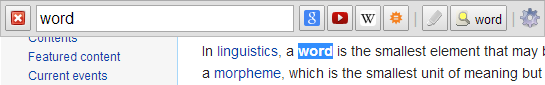
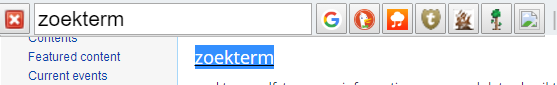
Images nd such

diff --git a/background.js b/background.js
@@ -10,26 +10,36 @@ var defaultsettings={
   "displayfindbuttons":true,
   "maximumnumberoffindbuttons":5,
   "sendsearchsuggestions":true,
-  "searchsuggestionslocale":"http://www.google.com",
+  "searchsuggestionslocale":".nl",
   "maximumnumberofsearchsuggestions":10,
   "maximumnumberofsearchhistorysuggestions":10,
   "disablesearchhistory":false,
-  "displayoptionspagelink":true,
+  "displayoptionspagelink":false,
   "hotkeys":{
     "show":[115,false,false,false],
     "hide":[27,false,false,false],
     "highlight":[72,true,true,false]
   },
   "custombuttons":[
-    [true,false,[[71,true,false,false],[71,true,true,false],[71,true,true,true]],"Salesforce (Alt+S)","https://www.salesforce.com/","https://eu4.salesforce.com/_ui/search/ui/UnifiedSearchResults?searchType=2&sen=00P&sen=001&sen=003&sen=00T&sen=005&sen=00U&sen=006&sen=a08&sen=00O&str=%s"],
-    [true,false,[[89,true,false,false],[89,true,true,false],[89,true,true,true]],"GerichtOnline (Alt+G)","https://go.gerichtonline.nl","https://go.gerichtonline.nl/cms/accounts?s=%s&d=Ascending&e=Name&i=1&o=20&u=%s"],
-    [true,false,[[87,true,false,false],[87,true,true,false],[87,true,true,true]],"Wikipedia (Alt+W)","http://en.wikipedia.org/","http://en.wikipedia.org/w/index.php?search=%s&title=Special%3ASearch"],
-    [true,false,[[false,false,false,false],[false,false,false,false],[false,false,false,false]],"Wolfram|Alpha","http://www.wolframalpha.com/","http://www.wolframalpha.com/input/?i=%s"],
+    [true,false,[[71,true,false,false],[71,true,true,false],[71,true,true,true]],"Google (Alt+G)","https://www.google.com/","https://www.google.nl/webhp?hl=en#hl=en&q=%s"],
+    [true,false,[[89,true,false,false],[89,true,true,false],[89,true,true,true]],"DuckDuckGo (Alt+D)","https://duckduckgo.com/","https://duckduckgo.com/?q=%s"],
+    [true,false,[[87,true,false,false],[87,true,true,false],[87,true,true,true]],"Mycloudplayer (Alt+C)","http://mycloudplayers.com/","http://mycloudplayers.com/?q=%s"],
+    [true,false,[[false,false,false,false],[false,false,false,false],[false,false,false,false]],"Kickass Torrent (Alt+K)","https://kat.cr/","https://kat.cr/usearch/%s"],
+    [true,false,[[false,false,false,false],[false,false,false,false],[false,false,false,false]],"Pirate bay(Alt+P)","https://pirateproxy.tf/","https://pirateproxy.tf/s/?q=%s"],
+    [true,false,[[false,false,false,false],[false,false,false,false],[false,false,false,false]],"Terraria wiki(Alt+T)","http://terraria.gamepedia.com/","http://terraria.gamepedia.com/index.php?search=%s&title=Special%3ASearch&go=Go"],
+    [true,false,[[false,false,false,false],[false,false,false,false],[false,false,false,false]],"Github(Alt+H)","https://github.com","https://github.com/search?utf8=&q=%s"], 
+    [true,true,[[false,false,false,false],[false,false,false,false],[false,false,false,false]],"search current site","http://www.google.com/","http://www.google.com/search?q=%s%20site%3A%h"],
+    [true,false,[[false,false,false,false],[false,false,false,false],[false,false,false,false]],"Google Images","http://images.google.com/","http://www.google.com/search?tbm=isch&q=%s"],     
   ],
-  "i1":"https://eu4.salesforce.com/favicon.ico",
-  "i2":"https://go.gerichtonline.nl/favicon.ico",
-  "i3":"https://bits.wikimedia.org/favicon/wikipedia.ico",
-  "i4":"https://www.wolframalpha.com/favicon.ico",
+  "i1":"https://www.google.com/favicon.ico",
+  "i2":"https://www.duckduckgo.com/favicon.ico",
+  "i3":"https://www.mycloudplayers.com/favicon.ico",
+  "i4":"https://kat.cr/favicon.ico",
+  "i5":"https://pirateproxy.tf/favicon.ico",
+  "i6":"http://hydra-media.cursecdn.com/terraria.gamepedia.com/6/64/Favicon.ico", 
+  "i7":"https://github.com/favoicon.ico",
[2 lines of base64/hex data omitted]
   "detect":true,
   "detectprimary":true,
   "detectcustom":[],
@@ -43,7 +53,7 @@ var defaultsettings={
   "direction":"initial",
   "removewhitespace":true,
   "forcepopup":false,
-  "extrapixels":0,
+  "extrapixels":5,
   "imageproxy":true,
   "searchremember":true
 };

diff --git a/options.html b/options.html
@@ -169,21 +169,21 @@ span#portwarning{
   display:none;
 }
 span#portwarning b{
-  color:#ff0000;
+  color:#ffffff;
 }
 </style>
 <script src="options.js"></script>
 </head><body>
 <a target="_blank" href="about:blank"><img src="logo_bro.jpg" id="brosmalllogo"></a>
-<h1><img src="icon48.png" class="icon"> SearchBar Options</h1>
+<h1><img src="icon48.png" class="icon"> Instellingen Awesome Search Engine</h1>
 <table><tr>
   <td id="sidebar">
-    <p id="introlink" class="sidebarlink">Introduction</p>
-    <p id="basiclink" class="sidebarlink">Basic settings</p>
-    <p id="advancedlink" class="sidebarlink">Advanced settings</p>
-    <p id="customlink" class="sidebarlink">Custom searches</p>
-    <p id="helplink" class="sidebarlink">Help/FAQ</p>
-    <p id="supportlink" class="sidebarlink">Support SearchBar</p></td>
+    <p id="introlink" class="sidebarlink">Hoe werk het</p>
+    <p id="basiclink" class="sidebarlink">Pagina 2</p>
+    <p id="advancedlink" class="sidebarlink">Instellingen</p>
+    <p id="customlink" class="sidebarlink">Customize de searchbar (werkt nog niet)</p>
+    <p id="helplink" class="sidebarlink">Vraag en antwoord</p>
+    <p id="supportlink" class="sidebarlink">De auteur</p></td>
   <td id="intro" class="settingsbar">
     <table class="introright"><tr><td class="introcell">press <b id="hotkeyshowmirror"></b> from a web page to open SearchBar</td><td class="introcellleft"><div id="previewcontainer1"><span id="searchbarpreview"></span></div></td></tr></table>
     <table class="introleft"><tr><td class="introcell"><img id="introimage1" src="intro1.png"></td><td class="introcell"><b>selected text</b> appears automatically</td></tr></table>
@@ -286,7 +286,7 @@ span#portwarning b{
         <p class="note">Your primary search (highlighted at the top of the table) can, if it is enabled, be performed using the Enter key. You can also have another hotkey for this search.</p></div>
     </fieldset>
   </td>
-  <td id="help" class="settingsbar">
+  <td id="none" class="settingsbar">
     <h2>Support requests</h2>
     <p>If you are experiencing a problem with SearchBar, have an idea for a new feature you'd like included, or have any question at all, then I would love to hear from you.</p>
     <p>Simply submit a <a target="_blank" href="https://chrome.google.com/webstore/support/fjefgkhmchopegjeicnblodnidbammed#bug">bug report</a>, <a target="_blank" href="https://chrome.google.com/webstore/support/fjefgkhmchopegjeicnblodnidbammed#feature">feature suggestion</a> or <a target="_blank" href="https://chrome.google.com/webstore/support/fjefgkhmchopegjeicnblodnidbammed#question">question</a>. I will try to get back to you quickly &ndash; please check back for my response.</p>

diff --git a/content.js b/content.js
@@ -157,7 +157,6 @@
           document.documentElement.style.position="relative";
         }
         iframe.style.width = "100%";
-        iframe.style.backgroundColor=""
         window.setTimeout(fixdisplay,1);
       };
       var hide=function(){
@@ -443,7 +442,7 @@
       searchbar.style.height="auto";
       searchbar.style.zIndex="2147483646";
       searchbar.style.padding="3px";
-      searchbar.style.backgroundColor = "#F7F7F7";
+      searchbar.style.backgroundColor = "transparent";
       searchbar.style.color="#b0b0b0";
       searchbar.style.cursor="default";
       searchbar.oldoffsetheight=0;
